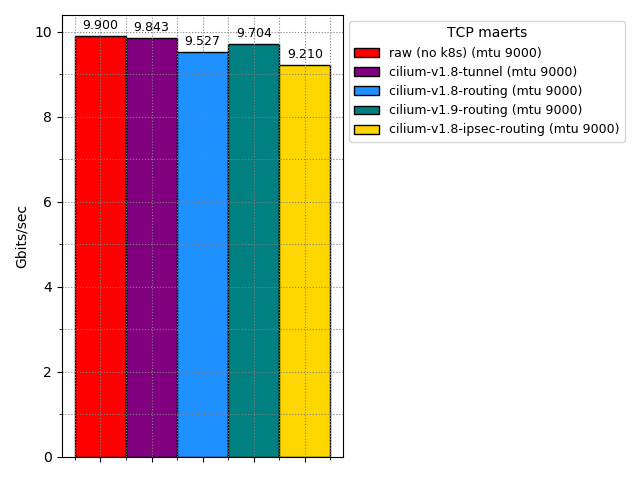
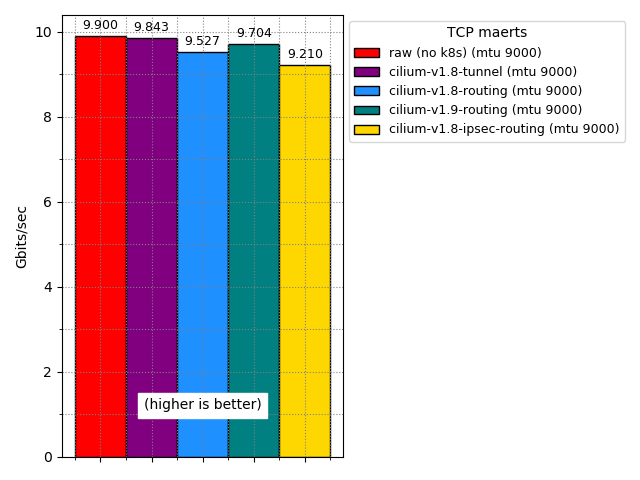
Documentation: performance evaluation improvements
- Add multi-stream results
- Add lower/higher is better labels
- use (lat vs batch) and (tput vs batch) plots for TCP_RR
- improve text

Changed region(s): [[0.1875, 0.8125, 0.4375, 0.875]]

diff --git a/Documentation/concepts/performance/index.rst b/Documentation/concepts/performance/index.rst
@@ -222,16 +222,39 @@ before setting up Cilium, in which case one would only need the second command.
 Results
 -------
 
-First, we examine bandwidth. The TCP stream (and TCP maerts) benchmark measures the
-maximum bandwidth that can be achieved by a client sending data to a server (and
-vice-versa). ``raw`` is the performance achieved by running the server and the
-client directly on the host, while ``cilium-v1.8-routing`` and
-``cilium-v1.8-tunnel`` show the pod-to-pod performance under different Cilium
-configurations. In all cases, the client and the server reside on different
-machines.
-
 Bandwidth
 ---------
+
+First, we examine bandwidth.  We start with evaluating the **maximum achievable
+transfer rate**. We do this by running multiple (16, equal to the number of
+available CPU threads on our machines) TCP streams and measure their aggregate
+throughput.  We use two netperf benchmarks: ``stream``, which sends data from
+the client to the server; and ``maerts``, which sends data from the server to
+the client.
+
+
+Results are presented below.  The bar labeled
+``raw`` shows the performance achieved by running the server and the client
+directly on the host. Bars ``cilium-v1.8-tunnel`` and ``cilium-v1.8-routing``
+show the performance of pod-to-pod communication when using Cilium in tunneling
+(VXLAN) and native-routing modes, respectively. Finally, encryption performance
+is shown in ``cilium-v1.8-ipsec-routing``.
+
+Non-encryption configurations perform very close to the limits of the system
+(raw). Tunneling does not perform as well as native routing, though, which we
+attribute to the overhead of UDP encapsulation.
+
+.. figure:: images/tcp_stream-16.png
+  :width: 450
+  :alt: TCP stream (16 streams)
+
+.. figure:: images/tcp_maerts-16.png
+  :width: 450
+  :alt: TCP maerts (16 streams)
+
+Next, we repeat the same experiments using a **single TCP stream** and present
+the results below.
+
 
 .. figure:: images/tcp_stream.png
   :width: 450
@@ -250,26 +273,26 @@ CNI running. This Cilium-free setup, reported above as ``raw-veth-routing``,
 resulted in a similar performance degradation. Since the same path is used in
 routing mode for Cilium, this explains a substantial part of the performance
 hit. Note that these results and bottlenecks apply to a single TCP stream, that
-is, multiple streams converge close to the NICs line rate.
+is, multiple streams converge close to the NICs line rate as we have
+shown previously.
 
 Given the single stream bottlenecks, we have recently been `working
 <https://lore.kernel.org/bpf/cover.1600967205.git.daniel@iogearbox.net/T/>`_ on
 improving the performance of veth through new eBPF features for the latest Linux
 kernels. Early experiments on our development branch ``cilium-v1.9-routing`` show
-that we were able to overcome these issues in direct routing mode. Additionally,
-optimizations are being worked on to improve performance and latency beyond the
+that we were able to overcome these issues in native routing mode. Additionally,
+optimizations are being worked on to improve performance beyond the
 results shown here.
 
 Using a Larger MTU
 ..................
 
-Bandwidth performance can be improved by increasing the MTU (e.g., to use jumbo
-frames) when this option is available. Our scripts (see
-``playbooks/set-dev-mtu.yaml``) offer examples on how to do this.
+Bandwidth performance can be improved by **increasing the MTU** when possible.
 It is worth noting that while increasing the MTU improves the
 performance of bandwidth benchmarks, it may have detrimental effects on other
-workloads. Results for using an MTU 9K for the same experiments are shown
-below.
+workloads. Results for using an MTU of 9000 (see `our scripts
+<https://github.com/cilium/perfeval/blob/master/playbooks/set-dev-mtu.yaml>`_
+for details) for the same experiments are shown below.
 
 .. figure:: images/tcp_stream-mtu9k.png
   :width: 450
@@ -283,32 +306,33 @@ Request/Reply Messages
 ----------------------
 
 Next, we examine the performance of sending small (1 byte) request and reply
-messages between a client and a server. Even though many studies focus on
-bandwidth measurements, modern applications rely heavily on message passing and
-this benchmark captures their behavior more accurately.
+messages between a client and a server using the same configurations as above.
+Even though many studies focus on bandwidth measurements, modern applications
+rely heavily on message passing and this benchmark captures their behavior more
+accurately.
 
-The first image shows how throughput (in transactions per second) and latency
-(in microseconds) vary as we increase the number of messages in flight
-(burst=0, 1, 2, 4...). As we increase the burst size, throughput increases
-until the system is saturated (this happens close to a burst of 128). At this
-point, throughput remains constant, while latency significantly increases. The
-two subsequent images show throughput and latency results for batch sizes 0 and
-128.
+The first image shows how **throughput** (in transactions per second) varies as
+we increase the number of messages in-flight using the ``burst`` parameter of
+netperf (burst=0, 1, 2, 4,...,512).  Note that a logarithmic scale is used for
+the x-axis.  As in-flight packets increase, throughput also increases until the
+system is saturated.
 
-.. figure:: images/tcp_rr.png
-  :width: 700
-  :alt: TCP RR
 
-.. figure:: images/tcp_rr-qd0.png
-  :width: 450
-  :alt: TCP RR / batch=0
+.. figure:: images/tcp_rr-tput.png
+  :width: 800
+  :alt: TCP RR: throughput
 
-.. figure:: images/tcp_rr-qd128.png
-  :width: 450
-  :alt: TCP RR / batch=128
+The second image shows how median latency is affected in the same experiment.
+(Note that in this case, lower is better.)
 
-One thing to note is that routing mode results in significantly lower latency
-for small batch sizes compared to tunneling.
+.. figure:: images/tcp_rr-lat.png
+  :width: 800
+  :alt: TCP RR: latency
+
+In general, Cilium performs close in terms of both latency and throughput to
+raw. (The initial latency spike on tunneling configuration is consistent
+across different measurements, and we are currently investigating its
+causes.)
 
 ------
 Tuning
